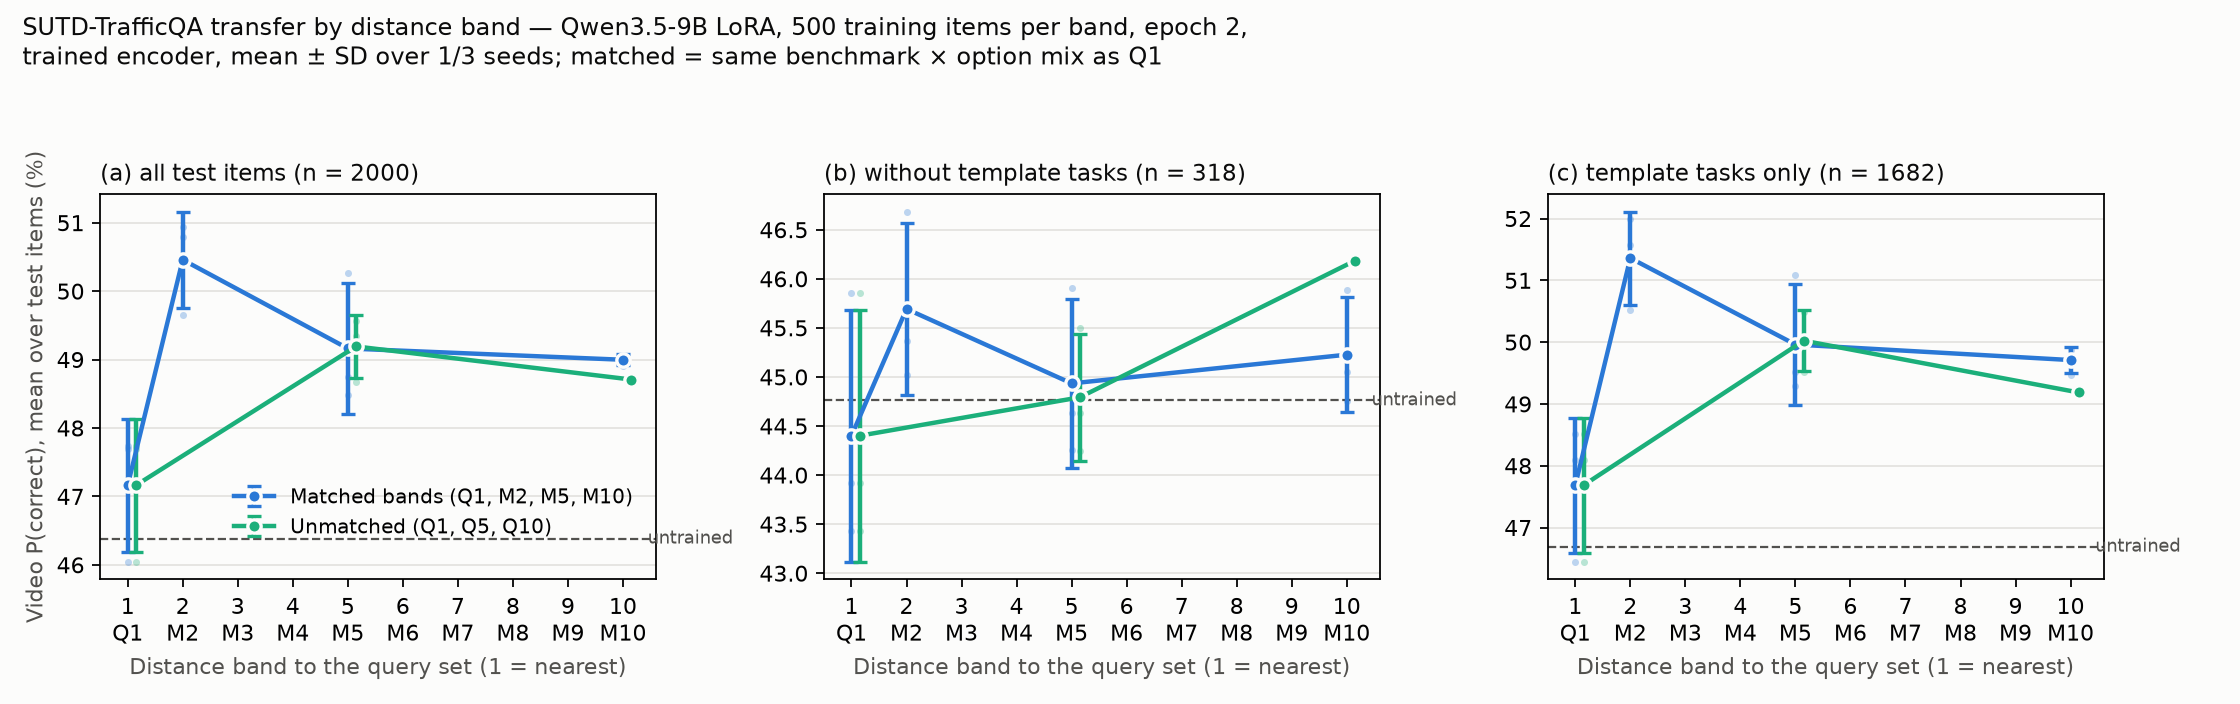
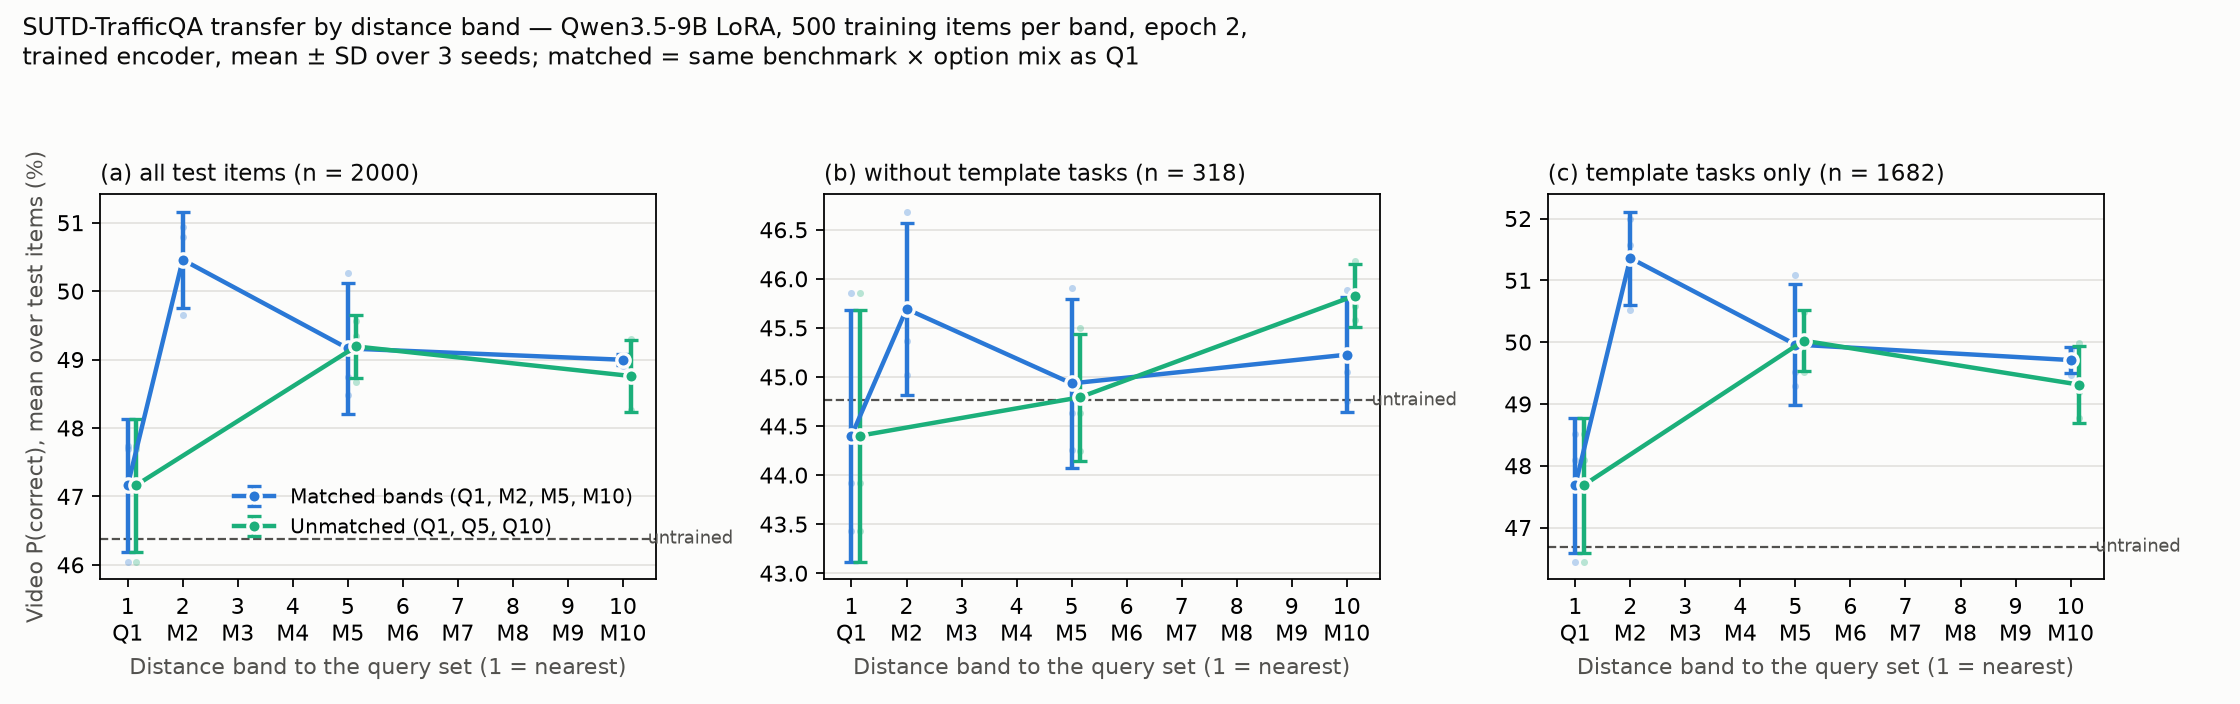
Distance-band page: final SUTD-TrafficQA unmatched scores (3 seeds, both epochs)

diff --git a/video-distance-band-transfer/index.html b/video-distance-band-transfer/index.html
@@ -43,8 +43,7 @@ tree-aware skill encoder. Three targets: Video-TT, HumanVBench, SUTD-TrafficQA. 
 <span class="m" tabindex="0" data-tip="demo">dashed term<span class="tip"><b>Like this.</b> Each dashed term opens a definition and a note on how to read our numbers for it.</span></span>
 for its definition and how to read our numbers.</p>
 
-<div class="callout"><b>Status.</b> Video-TT and HumanVBench are complete. SUTD-TrafficQA is still being scored: the unmatched Q10 arm
-has 1 of 3 seeds at epoch 2, and unmatched Q5/Q10 have no epoch-1 scores yet. Those points will move.</div>
+<div class="callout"><b>Status.</b> Complete: every arm on all three targets has 3 seeds scored at both epochs.</div>
 
 <h2>Design in one paragraph</h2>
 <p>The 49k-question training pool is ordered by similarity to the target's query questions using the trained encoder (round-robin over
@@ -107,7 +106,7 @@ mean ± SD over 3 seeds; all test items with frames.</p>
 <tr><th>Target (test items)</th><th>Untrained</th><th>Q1 (nearest)</th><th>Matched M2</th><th>Matched M5</th><th>Matched M10</th><th>Unmatched Q5</th><th>Unmatched Q10</th></tr>
 <tr><td>Video-TT (582)</td><td>41.5</td><td class="b">46.8 ± 1.5</td><td>43.6 ± 3.0</td><td>44.7 ± 1.7</td><td>44.2 ± 1.3</td><td>41.1 ± 1.9</td><td>42.8 ± 0.4</td></tr>
 <tr><td>HumanVBench (1,804)</td><td>56.3</td><td>60.7 ± 0.4</td><td>60.5 ± 1.2</td><td>59.3 ± 1.6</td><td>60.3 ± 1.5</td><td class="b">61.1 ± 0.1</td><td>58.6 ± 0.9</td></tr>
-<tr><td>SUTD-TrafficQA (2,000)</td><td>46.4</td><td>47.2 ± 1.0</td><td class="b">50.5 ± 0.7</td><td>49.2 ± 1.0</td><td>49.0 ± 0.1</td><td>49.2 ± 0.5</td><td>48.7 (1 seed)</td></tr>
+<tr><td>SUTD-TrafficQA (2,000)</td><td>46.4</td><td>47.2 ± 1.0</td><td class="b">50.5 ± 0.7</td><td>49.2 ± 1.0</td><td>49.0 ± 0.1</td><td>49.2 ± 0.5</td><td>48.8 ± 0.5</td></tr>
 </table></div>
 <ul>
 <li><b>Video-TT:</b> Q1 is best. The unmatched far arms fall to the untrained level, while the matched bands keep about 3 points of the gain,
@@ -150,10 +149,10 @@ Aqua: unmatched arms (Q1, Q5, Q10), offset slightly right. Faint dots: individua
 <figcaption><b>HumanVBench, epoch 1.</b></figcaption></figure>
 
 <figure><img src="fig/sutd_e2.png" alt="SUTD-TrafficQA band curves at epoch 2: all test items, without template tasks, template tasks only." loading="lazy">
-<figcaption><b>SUTD-TrafficQA, epoch 2:</b> all test items, without template tasks, and template tasks only. Unmatched Q10 is 1 seed so far.</figcaption></figure>
+<figcaption><b>SUTD-TrafficQA, epoch 2:</b> all test items, without template tasks, and template tasks only.</figcaption></figure>
 
-<figure><img src="fig/sutd_e1.png" alt="SUTD-TrafficQA band curves at epoch 1, matched bands only." loading="lazy">
-<figcaption><b>SUTD-TrafficQA, epoch 1</b> (unmatched arms not yet scored at epoch 1).</figcaption></figure>
+<figure><img src="fig/sutd_e1.png" alt="SUTD-TrafficQA band curves at epoch 1." loading="lazy">
+<figcaption><b>SUTD-TrafficQA, epoch 1.</b> Every trained arm sits within about 1 point of the untrained model.</figcaption></figure>
 
 <h2>The encoder that chose the bands</h2>
 <p>Tree-aware skill encoder <code>t2_w0_lam0.0003_ep5</code>: gte-modernbert-base, fully fine-tuned to place each question near the
